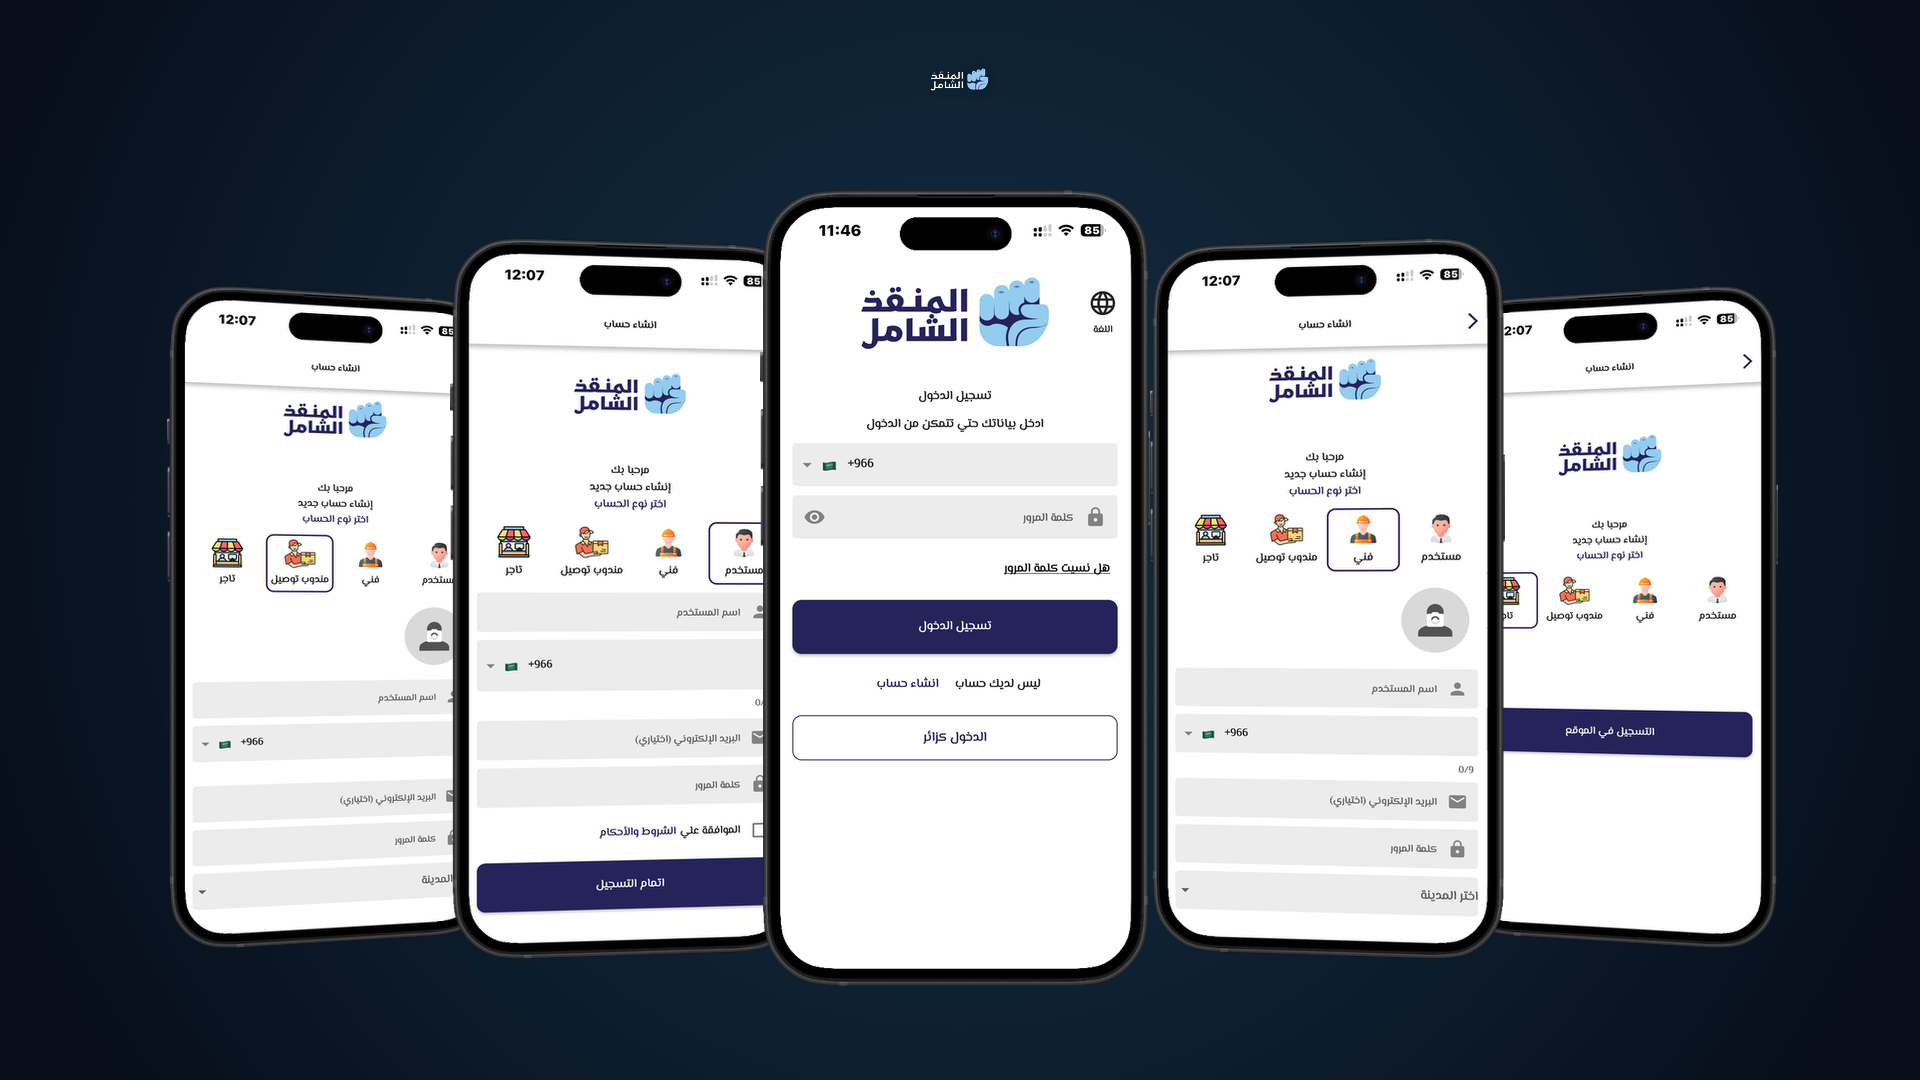
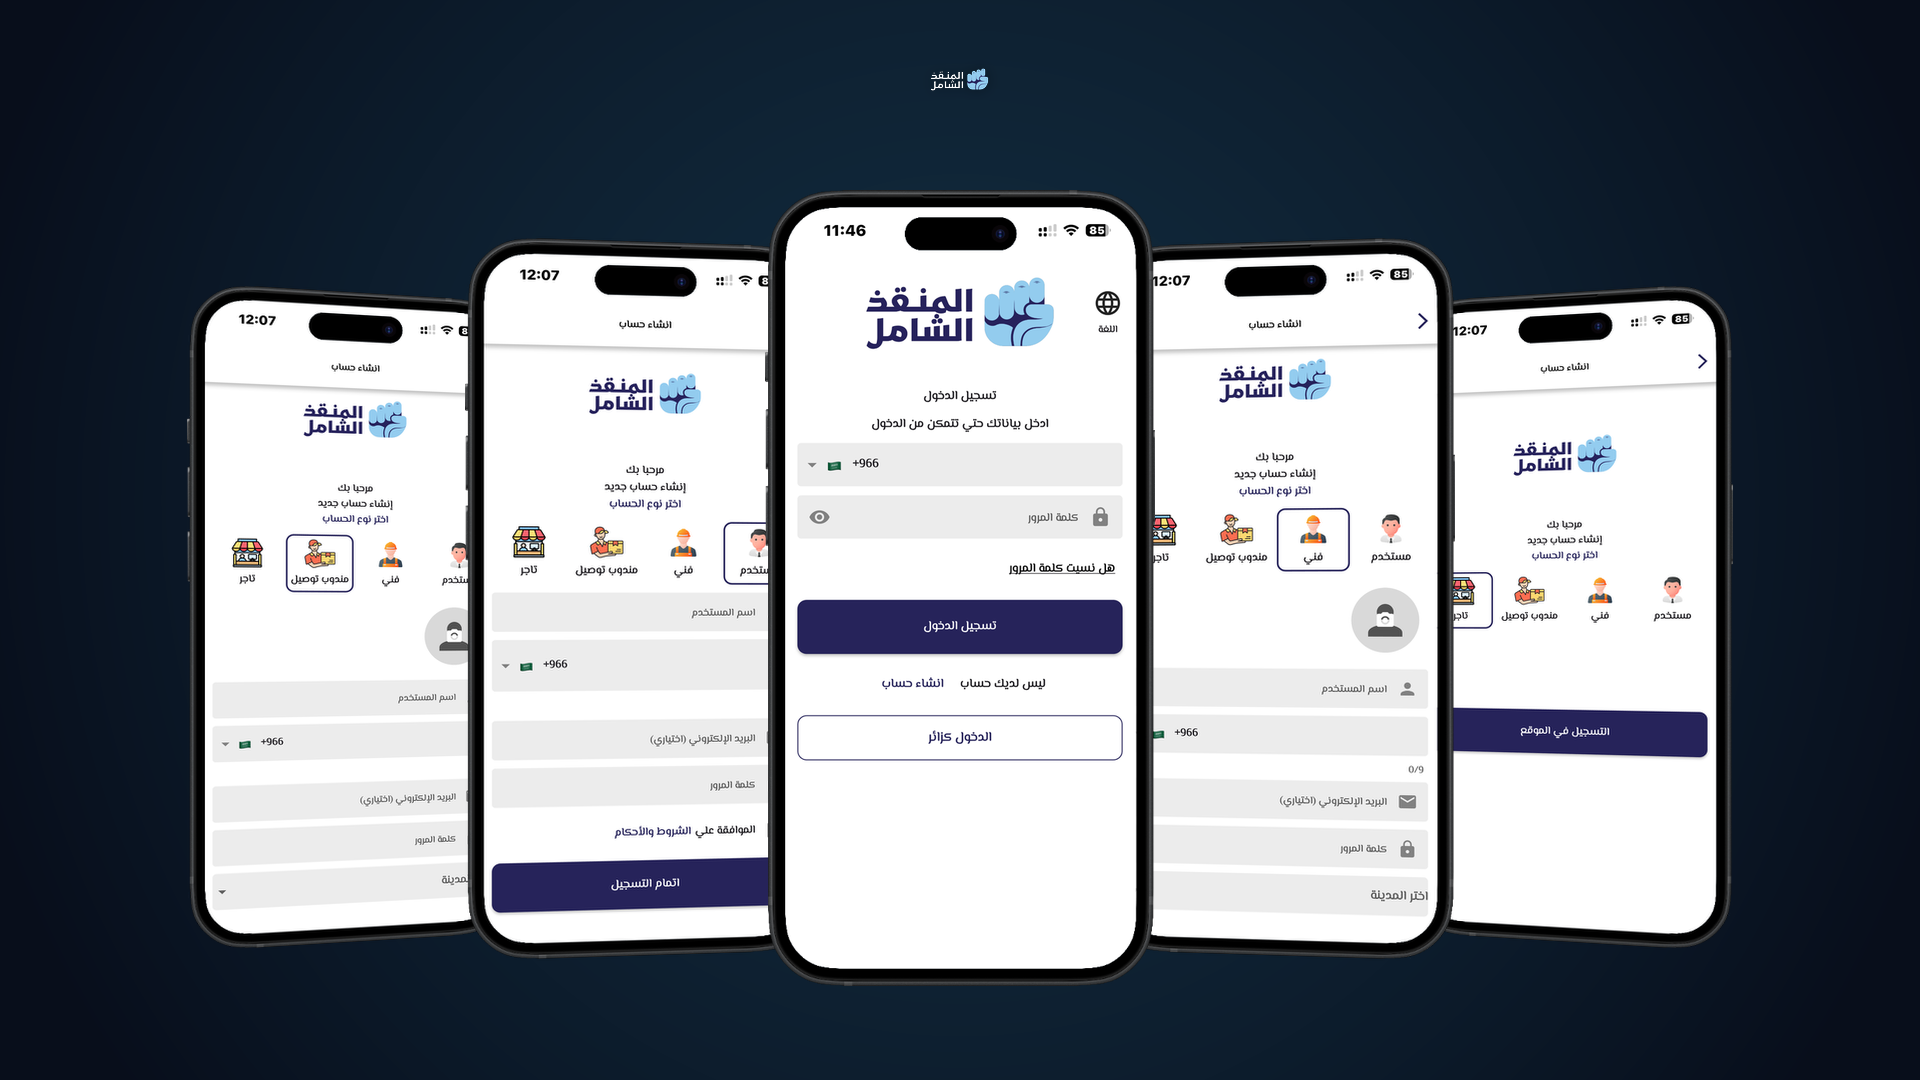
feat: recalculate 100% mathematically symmetrical 3D perspective phone collages across all 4 projects

diff --git a/scripts/generate_3d_collages.py b/scripts/generate_3d_collages.py
@@ -3,7 +3,7 @@
 Universal 3D App Showcase Collage Generator
 -------------------------------------------
 Generates 1920x1080 high-definition 3D phone showcase collages matching the
-exact empirical pixel standards of the portfolio.
+exact empirical pixel standards and mathematical symmetry of the portfolio.
 
 Default Frame: iPhone 15 Pro Frame
 Optional Frame: Android Punch-Hole Frame (--frame-type android)
@@ -185,7 +185,12 @@ def generate_hero_collage(screenshots, output_path, brand_hex, logo_path, frame_
     heights = [670, 725, 796, 725, 670]
     yaws = [-12, -6, 0, 6, 12]
     y_offsets = [282, 236, 190, 236, 282]
-    xs = [167, 450, 760, 1150, 1450]
+    
+    # 100% Mathematically Symmetrical X positions:
+    if frame_type == "android":
+        xs = [219, 485, 772, 1093, 1385] # Exact equal 55px/50px symmetrical overlaps
+    else:
+        xs = [187, 465, 765, 1100, 1405] # Exact equal 55px/50px symmetrical overlaps
     
     phones = []
     for ss_path, h, y in zip(screenshots[:5], heights, yaws):
